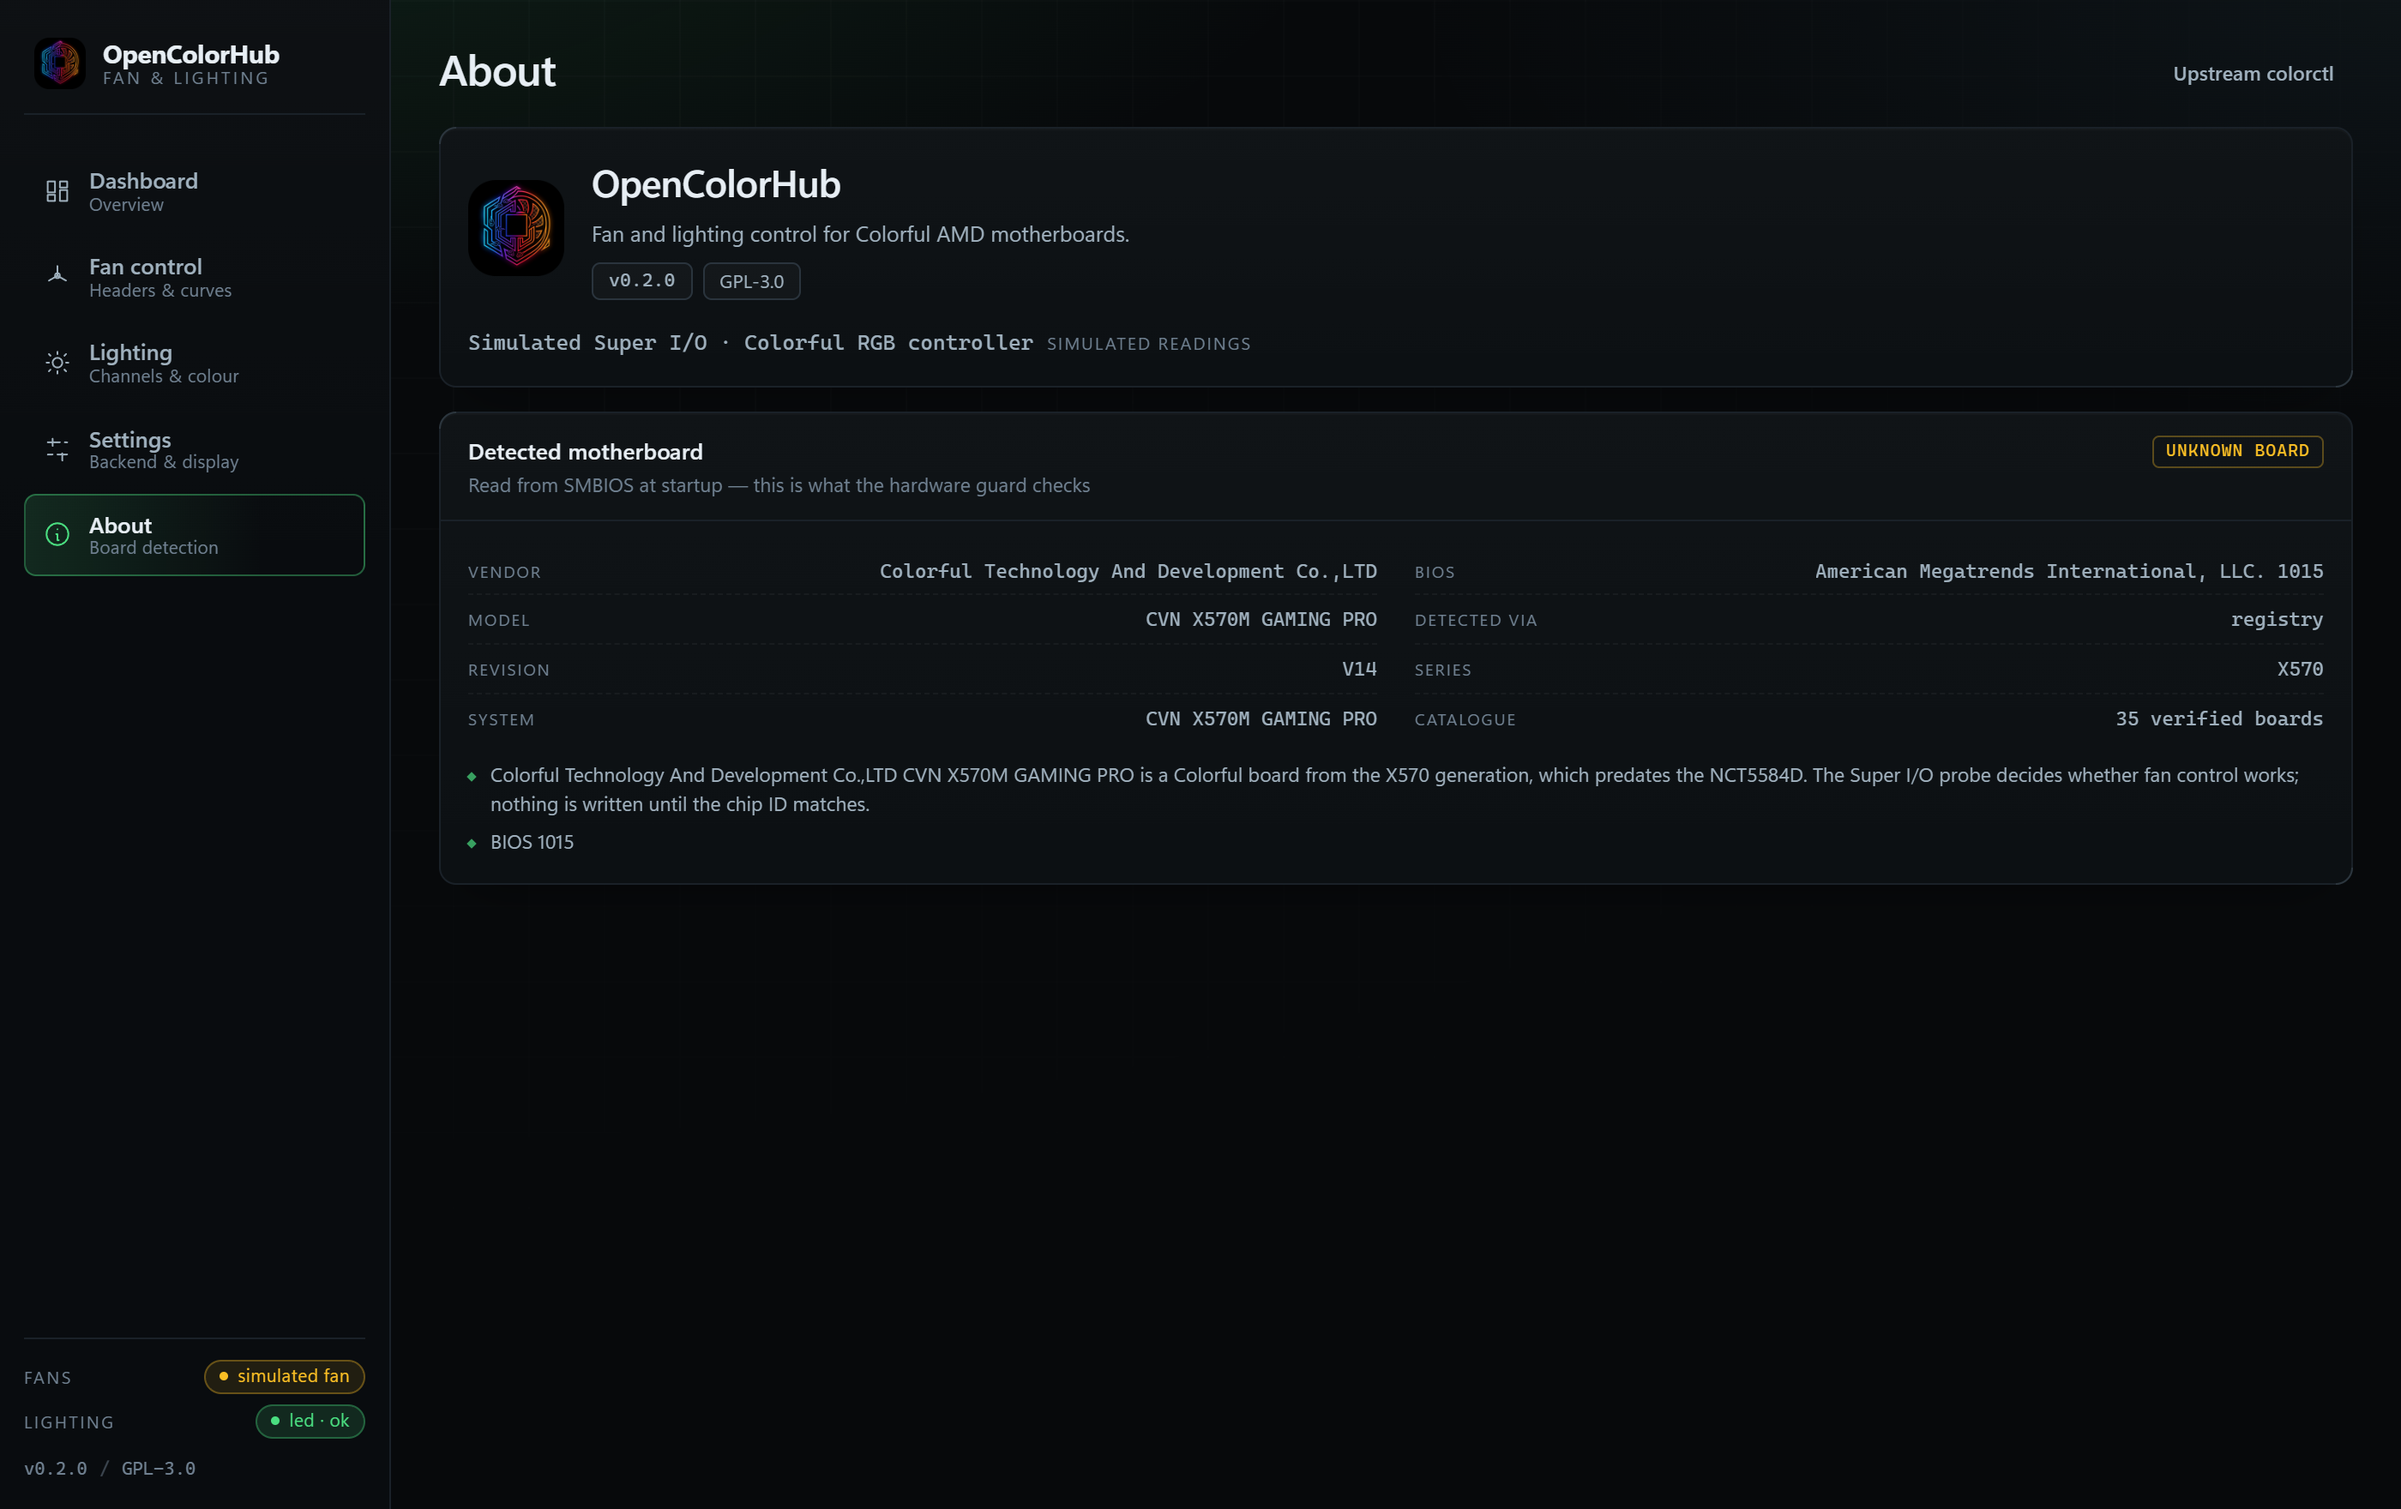
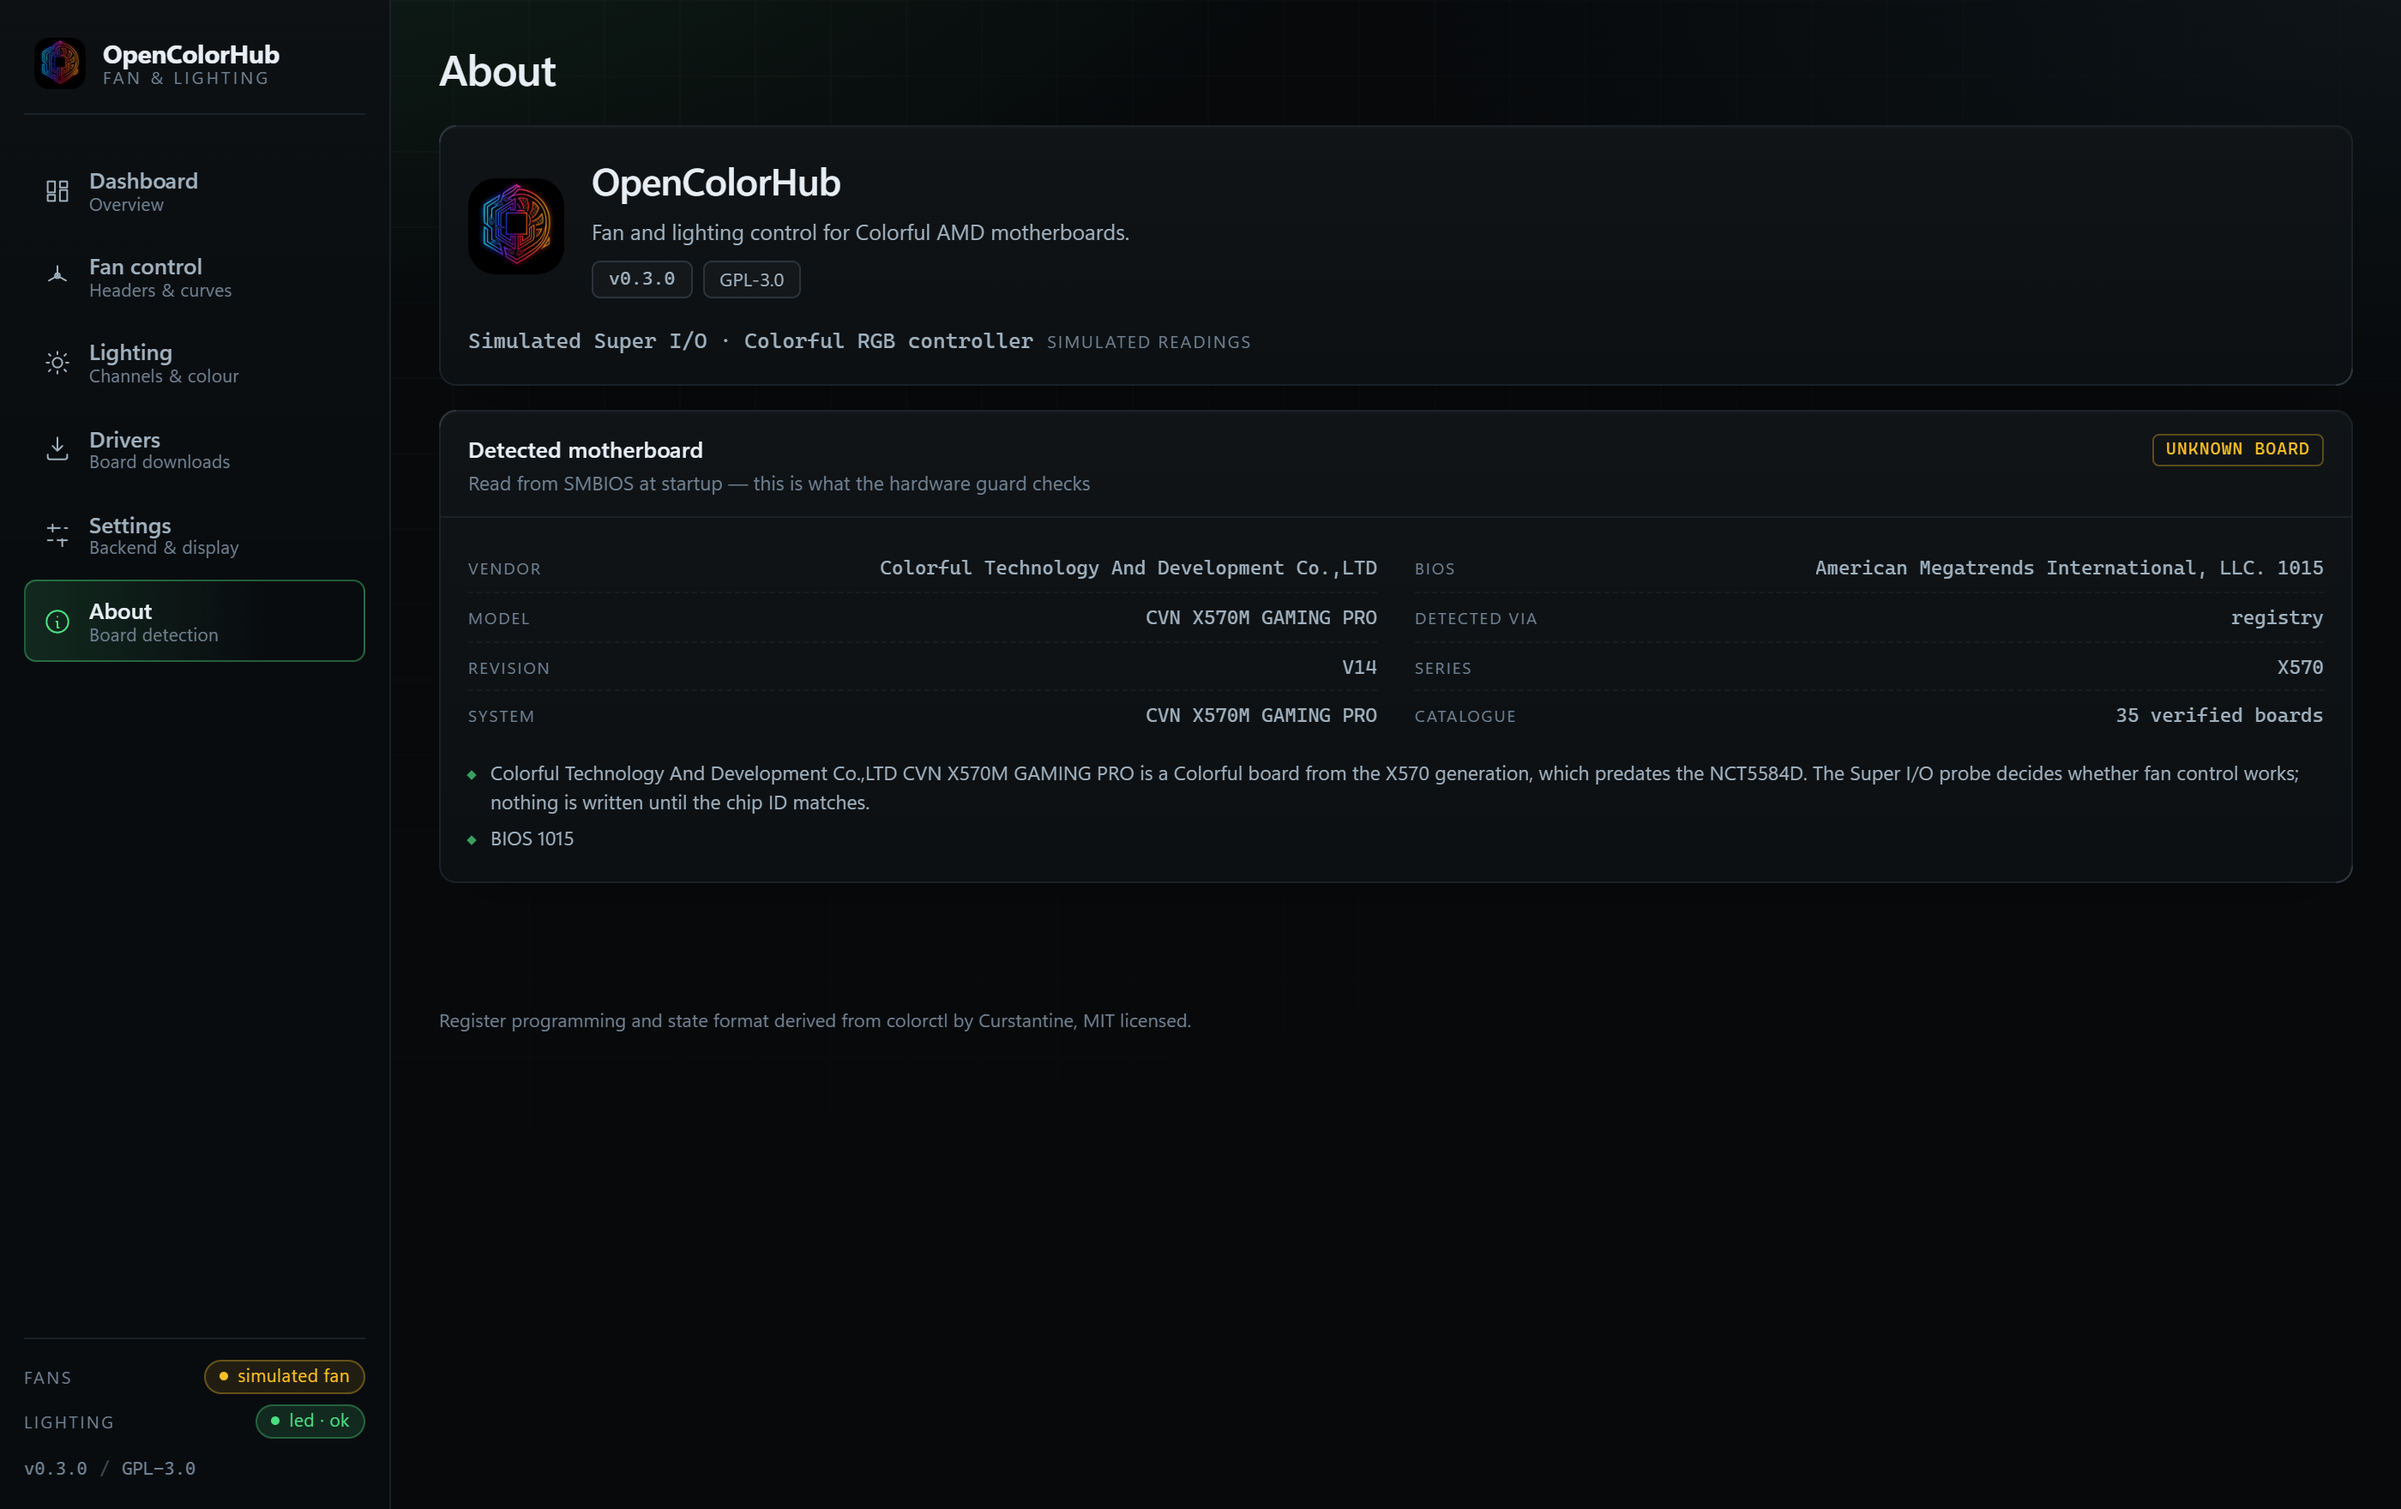
refactor(about): drop the upstream button, keep the credit as text
The header carried an "Upstream colorctl" button that opened the MIT project
this app derives its register programming from. Removing it leaves the credit
where it belongs — as a line of text under the detected-board panel:

    Register programming and state format derived from colorctl by
    Curstantine, MIT licensed.

The name, author and licence come from the backend's `upstream` metadata rather
than being hard-coded in the view, so the text cannot drift from `NOTICE.md`.

No other screen in the header has actions either (fans, leds), so the empty
right-hand slot is consistent rather than a gap.

`docs/screenshots/about.png` re-captured on the new build.

diff --git a/src/views/about.ts b/src/views/about.ts
@@ -5,7 +5,7 @@ import { el } from "../dom";
 import logoUrl from "../assets/logo.png";
 import type { AboutInfo, Snapshot } from "../types";
 import type { View, ViewContext } from "../view";
-import { badge, button, inlineNote, kv, panel } from "../components/ui";
+import { badge, inlineNote, kv, panel } from "../components/ui";
 
 function boardBadge(board: AboutInfo["board"]): HTMLElement {
   const tone = board.confidence === "verified"
@@ -54,6 +54,8 @@ export function createAbout(_ctx: ViewContext): View {
     ],
   });
 
+  const credit = el("p", { class: "about-credit" });
+
   const root = el(
     "div",
     { class: "screen" },
@@ -65,18 +67,10 @@ export function createAbout(_ctx: ViewContext): View {
         {},
         el("h1", { class: "screen-title" }, "About"),
       ),
-      el(
-        "div",
-        { class: "screen-actions" },
-        button("Upstream colorctl", {
-          variant: "quiet",
-          size: "sm",
-          onClick: () => void api.openExternal("https://github.com/Curstantine/colorctl"),
-        }),
-      ),
     ),
     hero,
     detail,
+    credit,
   );
 
   const render = (about: AboutInfo) => {
@@ -121,6 +115,13 @@ export function createAbout(_ctx: ViewContext): View {
     .about()
     .then((about) => {
       render(about);
+      credit.replaceChildren(
+        el(
+          "span",
+          {},
+          `Register programming and state format derived from ${about.upstream.name} by ${about.upstream.author}, ${about.upstream.license} licensed.`,
+        ),
+      );
       const version = root.querySelector(".chip.mono");
       if (version) version.textContent = `v${about.version}`;
     })

diff --git a/src/styles/app.css b/src/styles/app.css
@@ -2557,3 +2557,9 @@ select {
     margin-left: 55%;
   }
 }
+
+.about-credit {
+  margin: 2px 0 0;
+  font-size: 11px;
+  color: var(--text-faint);
+}
